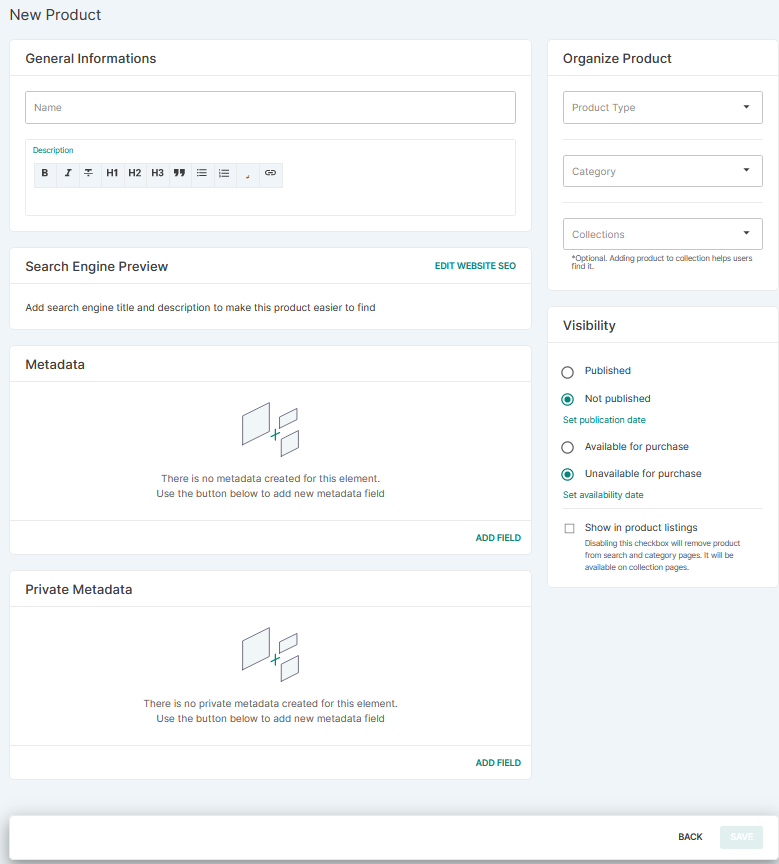
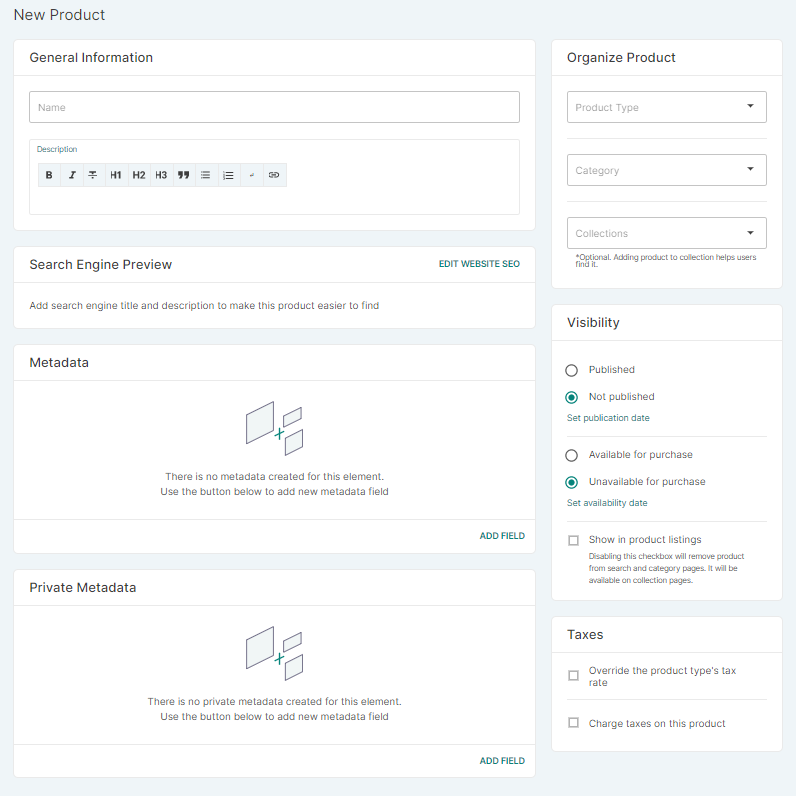
Add missing step in the product page and new screenshots
Saleor 2.11 docs: replaced SEO edit and new-product screenshots, added new screenshot about taxes, added missing step about taxes, removed unnecessary info from step 2

diff --git a/website/versioned_docs/version-2.11/dashboard/catalog/products.md b/website/versioned_docs/version-2.11/dashboard/catalog/products.md
@@ -180,9 +180,7 @@ Your product descriptions can be cool and fun, or just based on the facts. They 
 
 #### Step 2: Define pricing
 
-Type the price of your product manually or using the stepper by the currency indicator. If your product is tax-exempt, leave the _Charge&nbsp;taxes&nbsp;for&nbsp;this&nbsp;item_ checkbox empty. If you need to charge taxes, click on the box and a green check mark will appear.
-
-For more information on taxes, see the [Taxes](dashboard/configuration/taxes.md) topic.
+Enter the price of your product in the variant creator or on the variant page.
 
 :::note Displaying localized prices
 
@@ -202,7 +200,7 @@ Click _Edit&nbsp;Website&nbsp;SEO_ to add a description. If you do not add uniqu
 Increase traffic to your store by adding SEO-friendly descriptions for search engines. Write interesting, short content about each product, using keywords that people will use in web searches. Create a unique description for each product so search engines do not think it is duplicated content.
 :::
 
-![Editing product SEO](../screenshots/catalog-product-seo.jpeg)
+![Editing product SEO](../screenshots/catalog-product-seo.png)
 
 #### Step 4: Organize your product
 
@@ -221,11 +219,22 @@ You also have to choose the availability for purchasing your product. If you sel
 
 To show a product in the product listings, you have to enable the _Show in product listings_ checkbox.
 
-#### Step 6: Save your new product
+#### Step 6: Product taxes
+Under the *Taxes* section, you will find two options. Both of them are optional.
+
+![Changing product visibility](../screenshots/catalog-product-taxes.png)
+
+The first option allows you to override the product type's tax rate. Click the checkbox to enable the override.
+
+The second option allows you to charge taxes. If you want to charge taxes on your product, you have to enable it by clicking the checkbox. If your product is tax-exempt, leave the checkbox empty.
+
+For more information on taxes, see the [Taxes](dashboard/configuration/taxes.md) topic.
+
+#### Step 7: Save your new product
 
 Once you have input your minimum required product information, click _save_ in the footer to add it to your catalog and continue with further setup.
 
-#### Step 7: Add images
+#### Step 8: Add images
 
 Much the same as on social media or other platforms, there are two ways to add an image:
 
@@ -236,7 +245,7 @@ You can add an unlimited number of images per product. The main image will be th
 
 ![Uploading product images](../screenshots/catalog-product-image-upload.jpeg)
 
-#### Step 8: Add image descriptions
+#### Step 9: Add image descriptions
 
 You can also add descriptions of specific product features to your images. Hover over the image and click on the pencil to edit the information.
 
